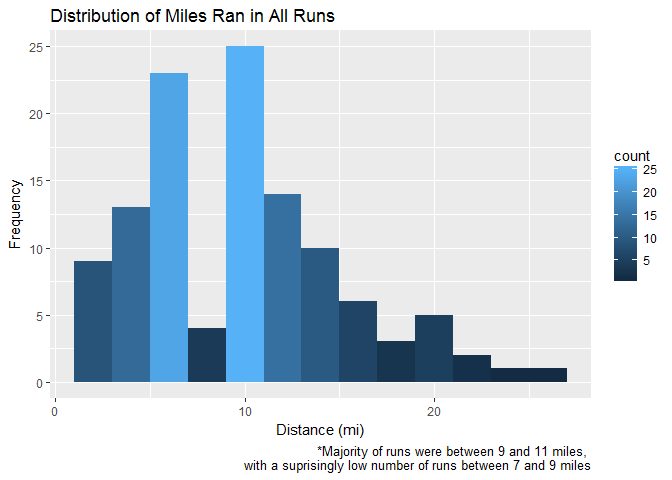
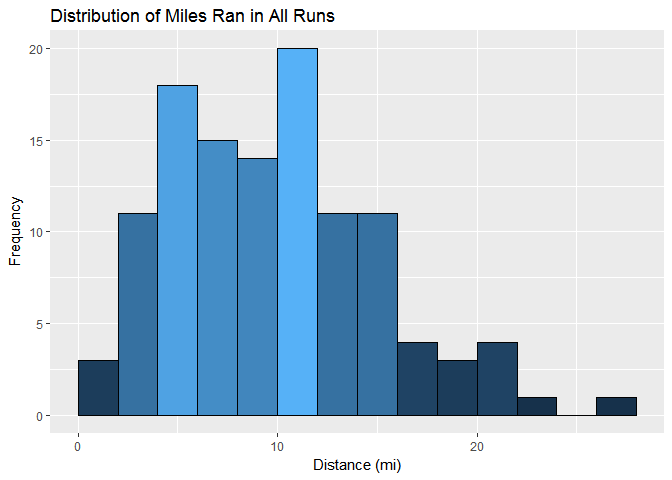
Update markdown for final analysis write-up with better graphs and some actual text description/analysis

diff --git a/R_Analysis_git.md b/R_Analysis_git.md
@@ -1,33 +1,23 @@
 Marathon Training Plan Data Analysis
 ================
-Steve Newns
-February 24, 2017
 
 *Initial Data Inspection*
 =========================
 
-Strava Data File
-----------------
+Fist, I load in the CSV file created in the **R\_Cleaning\_Garmin\_Strava** script file, which contains the combined dataset of runs from my Philadelphia Marathon training plan from both Strava and Garmin Connect. I then inspect the data to make sure I have all the correct data in the correct data types.
 
-load in the CSV file containing the Strava data file created by and downloaded from **VeloViewer.com** and check out the dataset.
-
-``` r
-runs <- read.csv("cleanedMarathonTrainingData.csv")
-str(runs)
-```
-
-    ## 'data.frame':    116 obs. of  19 variables:
+    ## 'data.frame':    116 obs. of  18 variables:
     ##  $ X             : int  12 15 94 4 6 8 13 16 95 5 ...
     ##  $ ID            : int  646029304 647216014 648410753 649445500 650512799 651933678 653912805 655096239 656203325 657259723 ...
     ##  $ Name          : Factor w/ 13 levels "10k Tune Up Run",..: 2 7 10 3 10 4 3 7 10 7 ...
     ##  $ Gear          : Factor w/ 4 levels "ASICS dunno Black, Yellow, Red",..: 2 2 1 2 1 2 2 2 1 2 ...
     ##  $ Date          : Factor w/ 116 levels "2016-07-19","2016-07-20",..: 1 2 3 4 5 6 7 8 9 10 ...
     ##  $ Month         : Factor w/ 5 levels "Aug","Jul","Nov",..: 2 2 2 2 2 2 2 2 2 2 ...
-    ##  $ monthNum      : int  7 7 7 7 7 7 7 7 7 7 ...
     ##  $ DOW           : Factor w/ 7 levels "Fri","Mon","Sat",..: 6 7 5 1 3 4 6 7 5 1 ...
     ##  $ StartTime     : Factor w/ 89 levels "10:01","10:09",..: 57 50 66 45 70 75 45 36 63 35 ...
     ##  $ Distance      : num  9.01 11 4 11 6 ...
-    ##  $ Time          : Factor w/ 114 levels "2017-03-08 00:07:43",..: 50 69 14 74 31 103 59 87 6 83 ...
+    ##  $ Time          : Factor w/ 114 levels "2017-03-18 00:07:43",..: 50 69 14 74 31 103 59 87 6 83 ...
+    ##  $ Avg.Pace      : Factor w/ 67 levels "2017-03-18 00:06:32",..: 13 32 57 38 55 39 33 41 48 49 ...
     ##  $ Speed.mph     : num  3.72 3.54 3.29 3.49 3.33 ...
     ##  $ Cad           : num  168 168 171 176 174 ...
     ##  $ Elevation.Gain: int  351 461 NA 468 230 572 400 485 NA 477 ...
@@ -35,28 +25,25 @@ str(runs)
     ##  $ Max.HR        : int  167 160 149 161 155 165 159 158 142 160 ...
     ##  $ Calories      : int  943 1176 442 1170 721 1653 1090 1318 314 1241 ...
     ##  $ RunType       : Factor w/ 5 levels "Long Run","Race",..: 5 4 3 4 3 1 4 4 3 4 ...
-    ##  $ Avg.Pace      : Factor w/ 67 levels "2017-03-08 00:06:32",..: 13 32 57 38 55 39 33 41 48 49 ...
 
-remove 1st col
-==============
+Well, to start off, I have a column which seems to contain the row numbers from the CSv, so let's remove that before going back to the inspection.
 
 ``` r
 runs$X <- NULL
 head(runs,2)
 ```
 
-    ##          ID           Name                   Gear       Date Month
-    ## 1 646029304 Classic LT Run Brooks Ghost Red/Black 2016-07-19   Jul
-    ## 2 647216014         ML Run Brooks Ghost Red/Black 2016-07-20   Jul
-    ##   monthNum DOW StartTime Distance                Time Speed.mph   Cad
-    ## 1        7 Tue      5:51     9.01 2017-03-08 01:04:59    3.7179 168.4
-    ## 2        7 Wed      5:36    11.00 2017-03-08 01:23:29    3.5350 168.4
-    ##   Elevation.Gain Avg.HR Max.HR Calories RunType            Avg.Pace
-    ## 1            351    149    167      943 Workout 2017-03-08 00:07:13
-    ## 2            461    150    160     1176     Run 2017-03-08 00:07:35
+    ##          ID           Name                   Gear       Date Month DOW
+    ## 1 646029304 Classic LT Run Brooks Ghost Red/Black 2016-07-19   Jul Tue
+    ## 2 647216014         ML Run Brooks Ghost Red/Black 2016-07-20   Jul Wed
+    ##   StartTime Distance                Time            Avg.Pace Speed.mph
+    ## 1      5:51     9.01 2017-03-18 01:04:59 2017-03-18 00:07:13    3.7179
+    ## 2      5:36    11.00 2017-03-18 01:23:29 2017-03-18 00:07:35    3.5350
+    ##     Cad Elevation.Gain Avg.HR Max.HR Calories RunType
+    ## 1 168.4            351    149    167      943 Workout
+    ## 2 168.4            461    150    160     1176     Run
 
-can't save POSIXct into CSV, must change here
-=============================================
+Alright, cool. But it looks like my run time field, **Time**, and average pace (min/mile) field, **Avg.Pace**, are not in the POSIXct format needed. So let's put them back into the correct format.
 
 ``` r
 runs$Time <- as.POSIXct(runs$Time)#, format = '%H:%M:%S')
@@ -64,17 +51,17 @@ runs$Avg.Pace <- as.POSIXct(runs$Avg.Pace)#, format = '%H:%M:%S')
 str(runs)
 ```
 
-    ## 'data.frame':    116 obs. of  18 variables:
+    ## 'data.frame':    116 obs. of  17 variables:
     ##  $ ID            : int  646029304 647216014 648410753 649445500 650512799 651933678 653912805 655096239 656203325 657259723 ...
     ##  $ Name          : Factor w/ 13 levels "10k Tune Up Run",..: 2 7 10 3 10 4 3 7 10 7 ...
     ##  $ Gear          : Factor w/ 4 levels "ASICS dunno Black, Yellow, Red",..: 2 2 1 2 1 2 2 2 1 2 ...
     ##  $ Date          : Factor w/ 116 levels "2016-07-19","2016-07-20",..: 1 2 3 4 5 6 7 8 9 10 ...
     ##  $ Month         : Factor w/ 5 levels "Aug","Jul","Nov",..: 2 2 2 2 2 2 2 2 2 2 ...
-    ##  $ monthNum      : int  7 7 7 7 7 7 7 7 7 7 ...
     ##  $ DOW           : Factor w/ 7 levels "Fri","Mon","Sat",..: 6 7 5 1 3 4 6 7 5 1 ...
     ##  $ StartTime     : Factor w/ 89 levels "10:01","10:09",..: 57 50 66 45 70 75 45 36 63 35 ...
     ##  $ Distance      : num  9.01 11 4 11 6 ...
-    ##  $ Time          : POSIXct, format: "2017-03-08 01:04:59" "2017-03-08 01:23:29" ...
+    ##  $ Time          : POSIXct, format: "2017-03-18 01:04:59" "2017-03-18 01:23:29" ...
+    ##  $ Avg.Pace      : POSIXct, format: "2017-03-18 00:07:13" "2017-03-18 00:07:35" ...
     ##  $ Speed.mph     : num  3.72 3.54 3.29 3.49 3.33 ...
     ##  $ Cad           : num  168 168 171 176 174 ...
     ##  $ Elevation.Gain: int  351 461 NA 468 230 572 400 485 NA 477 ...
@@ -82,60 +69,27 @@ str(runs)
     ##  $ Max.HR        : int  167 160 149 161 155 165 159 158 142 160 ...
     ##  $ Calories      : int  943 1176 442 1170 721 1653 1090 1318 314 1241 ...
     ##  $ RunType       : Factor w/ 5 levels "Long Run","Race",..: 5 4 3 4 3 1 4 4 3 4 ...
-    ##  $ Avg.Pace      : POSIXct, format: "2017-03-08 00:07:13" "2017-03-08 00:07:35" ...
 
-can't save ordered factors in CSV, must change here
-===================================================
+Looks like **Month** was also not loaded as on *ordered* factor like I need it. As it is now, if I used it in my graphs, it would be ordereded alphabetically, not chronologically like I need it. So let's convert it back to an ordered factor with the correctly-specified ordering via the **levels** argument.
 
 ``` r
 runs$Month <- factor(runs$Month, ordered = TRUE, levels = c("Jul","Aug","Sep","Oct","Nov"))
-class(runs$Month)
 ```
 
-    ## [1] "ordered" "factor"
-
-load ggplot2 + make histogram
-=============================
-
-``` r
-library(ggplot2)
-
-#distance histogram
-ggplot(data = runs, aes(x = Distance)) + 
-  geom_histogram(binwidth = 2, aes(fill = ..count..)) + 
-  xlab("Distance (mi)") + 
-  ylab("Frequency") + 
-  ggtitle("Distribution of Miles Ran in All Runs") + 
-  labs(caption="*Majority of runs were between 9 and 11 miles, 
-       with a suprisingly low number of runs between 7 and 9 miles")
-```
+Now its time to acually make some plots. I'll start off with a simple histogram of how many miles I ran per in each of my runs.
 
 ![](R_Analysis_git_files/figure-markdown_github/plotting-1.png)
 
-``` r
-#check data
-tapply(runs$Distance,runs$Month,sum)
-```
+It looks like the majority of my runs (20 of 'em) were between 10 and 12 miles, with the next highest frequency being from 4 to 6 miles, which were mostly recovery runs, showing that there was indeed a lot scheduled time for recovery in this plan. We can also see my one 24 mile run all the way to the right, my longest Long Run of the plan.
+
+Now let's look at the total number of miles ran each month, with a pretty obvious expectation to see the total rise month-by-month.
+
+![](R_Analysis_git_files/figure-markdown_github/miles%20by%20month-1.png)
 
     ##    Jul    Aug    Sep    Oct    Nov 
     ## 118.08 250.08 308.14 304.45 168.44
 
-miles by month bars
-===================
-
-``` r
-ggplot(data = runs, aes(x = Month, y = Distance, fill = Month)) + 
-  geom_bar(stat="identity") +
-  xlab("Month") + 
-  ylab("Total Miles") + 
-  #coord_flip() + 
-  #scale_x_discrete(limits = rev(levels(runs$Month))) +
-  #geom_text(vjust=0, colour="red") +
-  ggtitle("Sum of Miles by Month") + 
-  labs(caption="*The largest number of miles ran, 308 miles, was in September")
-```
-
-![](R_Analysis_git_files/figure-markdown_github/miles%20by%20month-1.png)
+The largest number of miles ran, 308 miles, was in September, and then we see a *ever-so-slightly* drop to 304 miles in October. (peak week in September?). Then we see the large drop from October to November, which was expected due tapering up the race and the fact that the race was on November 20th, so there's no more run data after that date.
 
 avg. cadence grouped by month
 =============================
